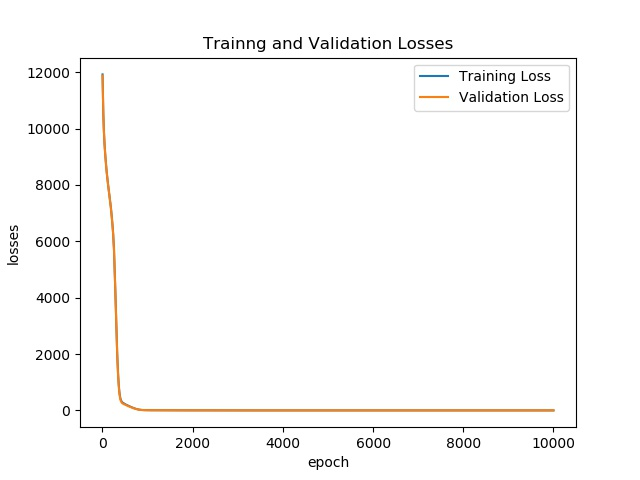
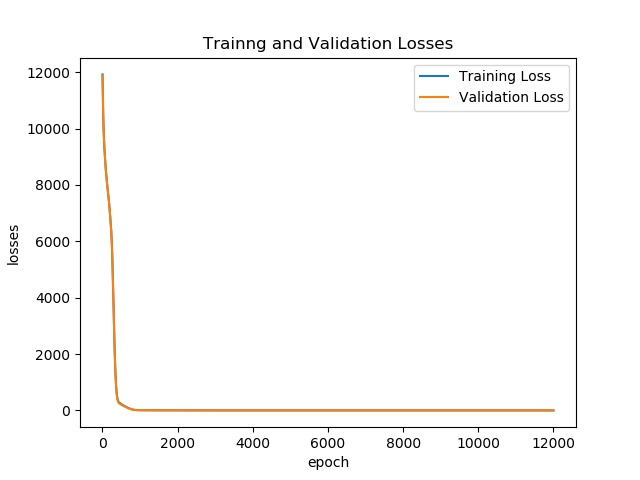
tuning randinit dense NN modl

diff --git a/TCN/prey_pred_model/prey_pred_sequence_randInit_denseNN.py b/TCN/prey_pred_model/prey_pred_sequence_randInit_denseNN.py
@@ -20,7 +20,7 @@ parser.add_argument('--dropout', type=float, default=0.0,
                     help='dropout applied to layers (default: 0.0)')
 parser.add_argument('--clip', type=float, default=-1,
                     help='gradient clip, -1 means no clip (default: -1)')
-parser.add_argument('--epochs', type=int, default=9999,
+parser.add_argument('--epochs', type=int, default=12000,
                     help='upper epoch limit (default: 100)')
 parser.add_argument('--ksize', type=int, default=7,
                     help='kernel size (default: 7)')
